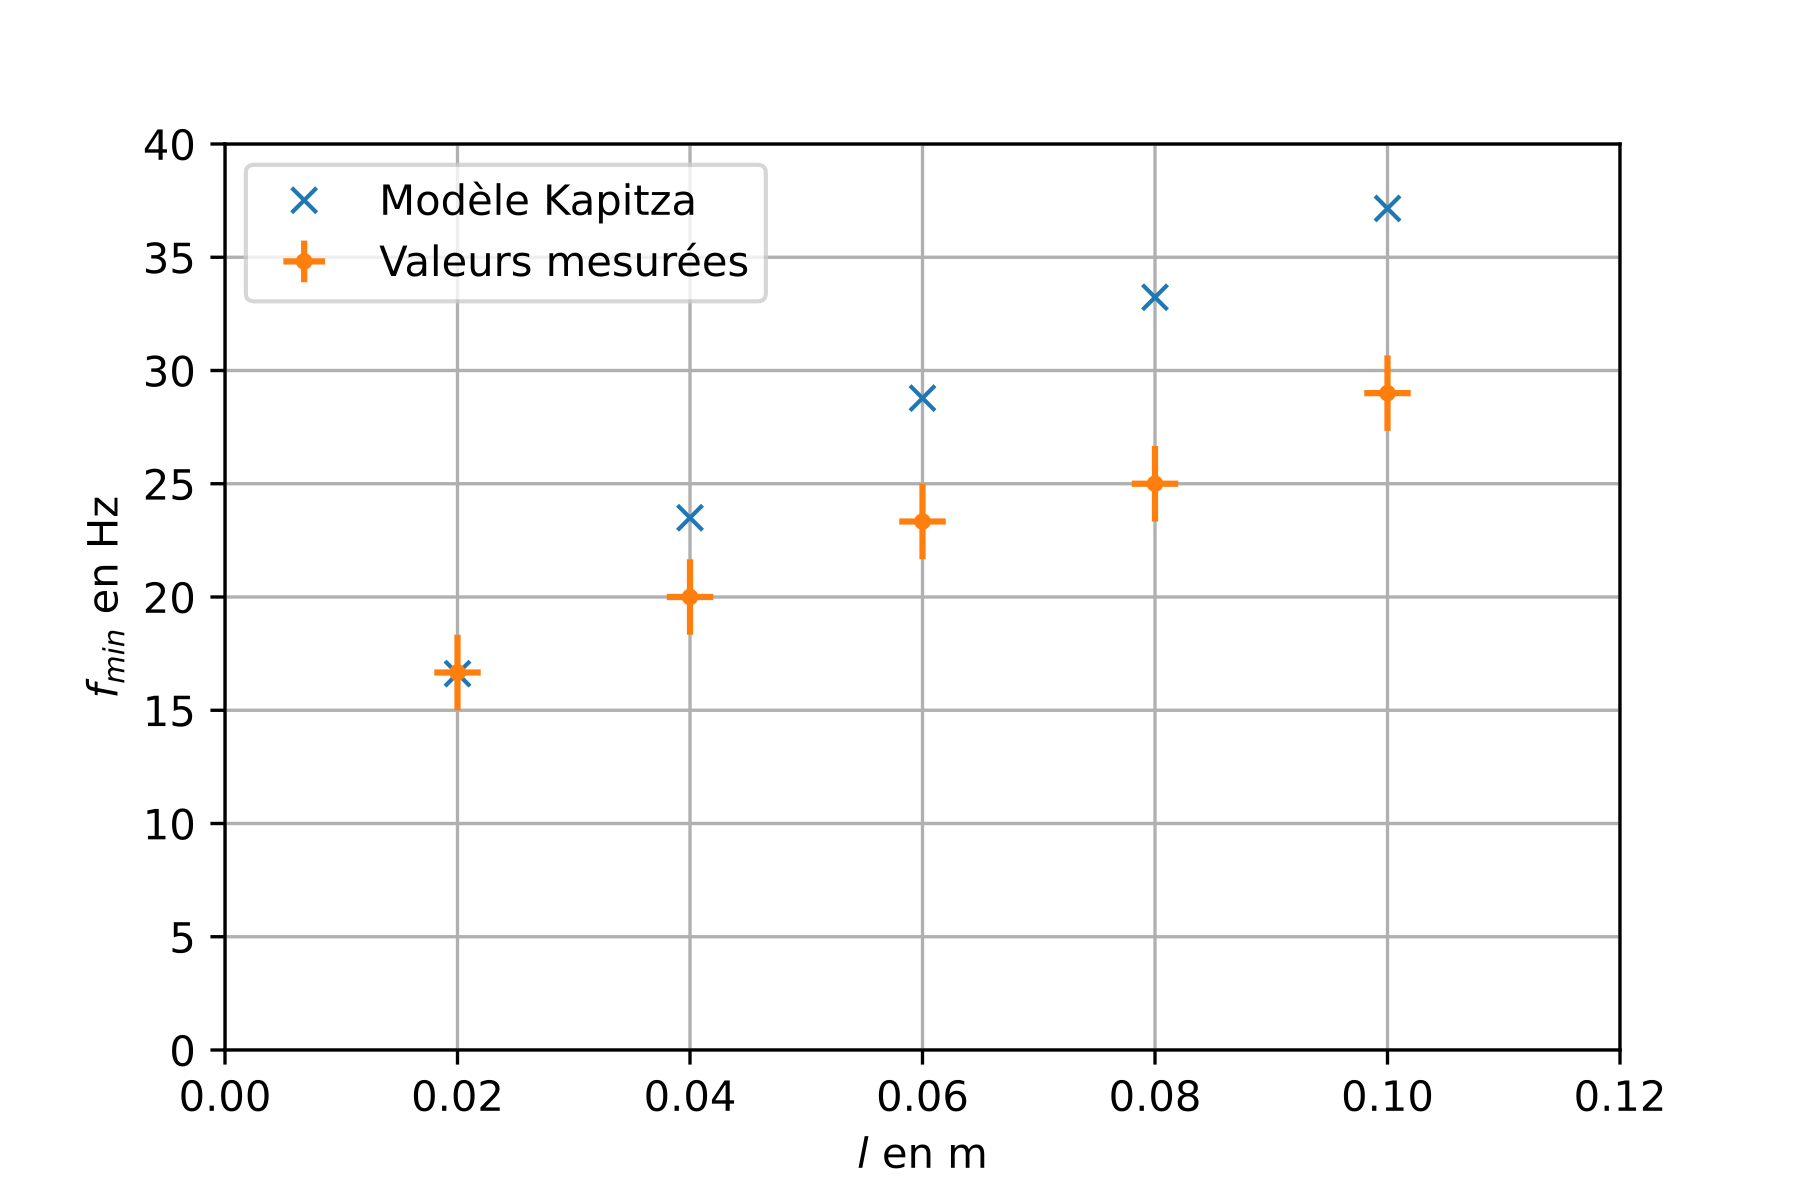
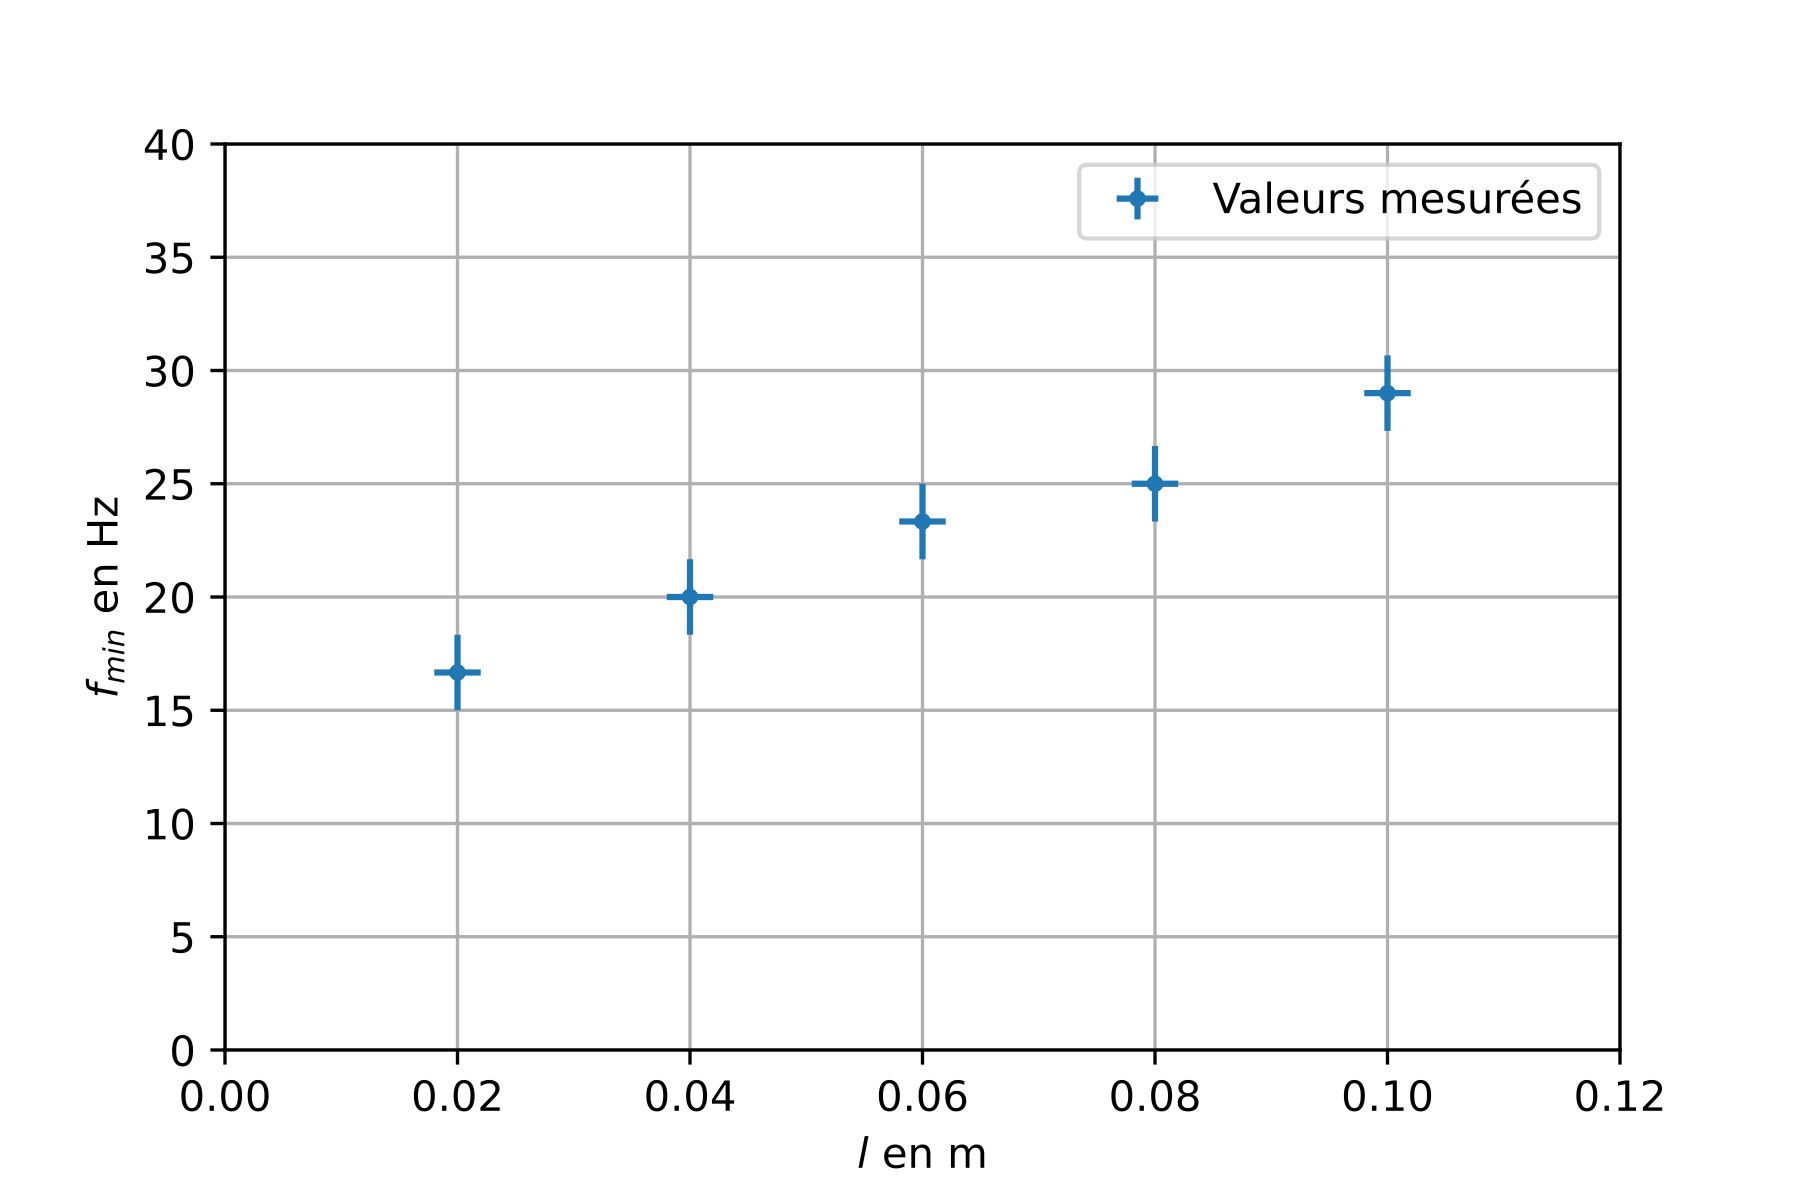
faute-du-titre

diff --git a/modélisation d'un pendule avec excitation .py b/modélisation d'un pendule avec excitation .py
@@ -80,7 +80,7 @@ class AppliPendule(tk.Tk):
         # L'instance de la fenetre principale se retrouve dans le self.donc
         # on pourra le self dans la suite
         tk.Tk.__init__(self)
-        self.title("Simulation d'un pendule avec excitation : le phénomène de résonnance")
+        self.title("Simulation d'un pendule avec excitation : le phénomène de résonance")
         
 
         # Etat du mouvement

diff --git a/saves/prog kaptiza fmin en fonc de l -  graph kapitza .py b/saves/prog kaptiza fmin en fonc de l -  graph kapitza .py
@@ -27,7 +27,7 @@ fmin_modele=(2*g*l)**0.5/(2*np.pi*a)
 
 plt.figure()
 #on trace les point à l'aide de x
-plt.plot(l,fmin_modele,'x',label='Modèle Kapitza') 
+# plt.plot(l,fmin_modele,'x',label='Modèle Kapitza') 
 #on trace les points avec des barres d'erreurs
 plt.errorbar(l,fmin,xerr=ul,yerr=ufmin,fmt='.',label='Valeurs mesurées') 
 #On nomme l'axe des abscisses'
